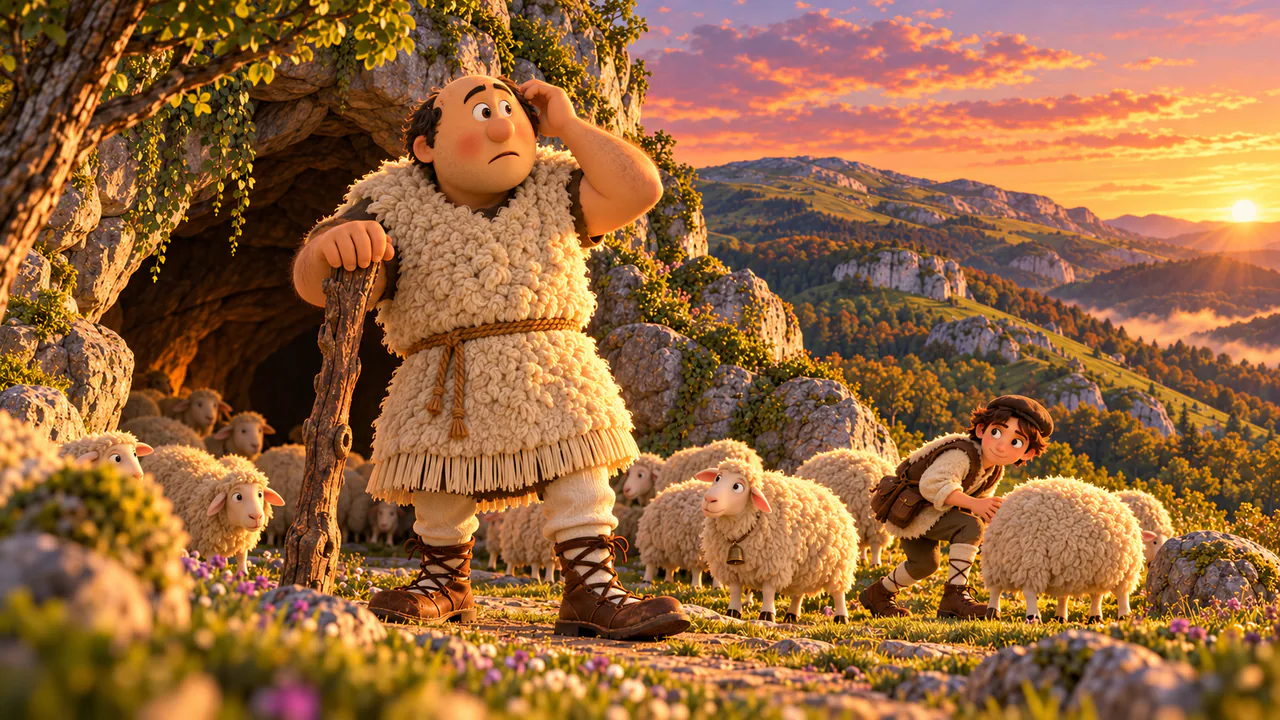
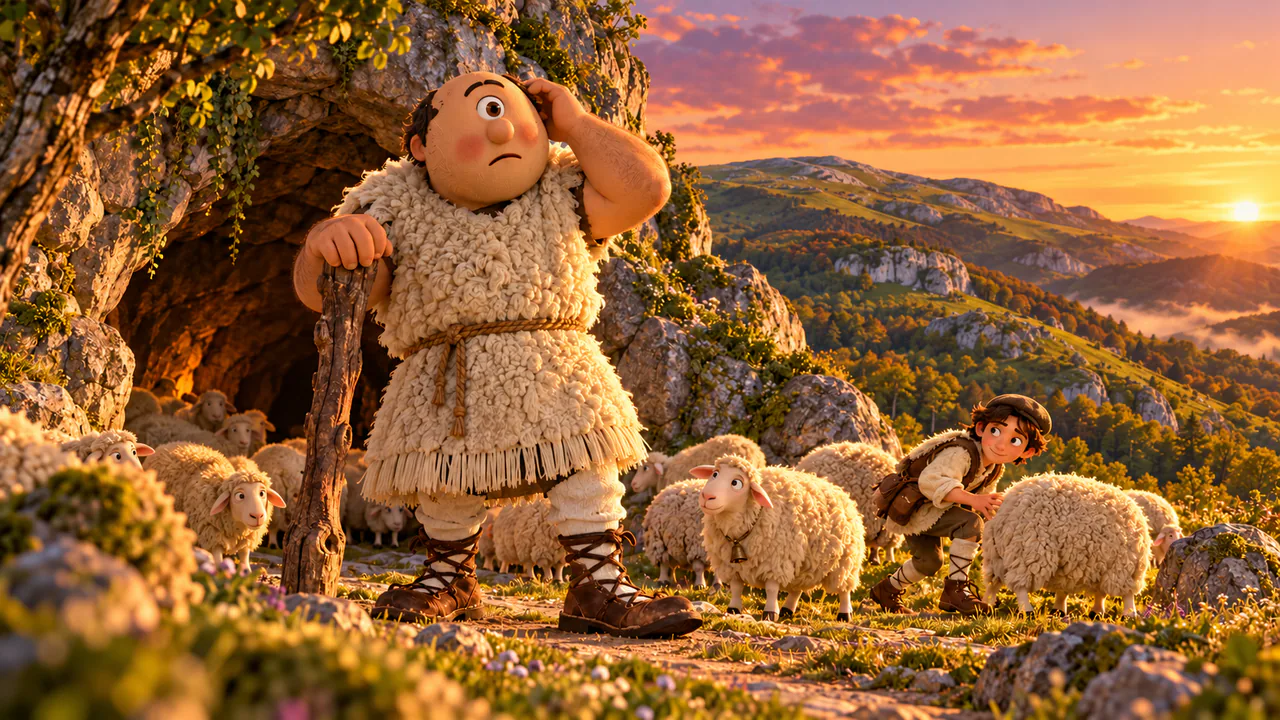
Revisión de imágenes: todas las ilustraciones también en el archivo único
El archivo único no tenía sitio para 59 ilustraciones (16 personajes de
Navarra, 15 tradiciones, 16 leyendas, 12 figuras y algunas láminas) y
enseñaba el icono de antes. Ahora, si llega a la web publicada, las
enseña de allí y repinta el menú; sin conexión, sigue con los iconos.

Tartalo pasa a la variante entregada con un solo ojo, como cuenta la
leyenda (la de antes tenía dos).

Claude-Session: https://claude.ai/code/session_01LP3syHb7415C8M5w3wgHaS

diff --git a/src/ui/laminas.js b/src/ui/laminas.js
@@ -6,7 +6,7 @@
 // (tools/laminas-movil.mjs: sin conexión, la portada a todo el ancho del móvil tumbado se veía borrosa).
 // En WebP y no en AVIF: los visores de HTML del iPhone no siempre enseñan AVIF, y sin ellas las portadas salían vacías.
 import { LAMINAS, COMARCA_LAMINA, CUENTO_LAMINA, PERSONAJE_LAMINA, BOSQUE_LAMINA } from '../data/laminas.js';
-import { hdTable } from '../web/hd.js';
+import { hdTable, webUrl } from '../web/hd.js';
 import { esc } from '../util/html.js';
 import { byId } from '../util/glob.js';
 
@@ -24,8 +24,9 @@ const BY_ID = Object.fromEntries(LAMINAS.map(l => [l.id, l]));
 const SMALL = Object.fromEntries(Object.entries(URLS).filter(([k]) => k.endsWith('-s')).map(([k, v]) => [k.slice(0, -2), v]));
 hdTable('laminas', URLS, BIG, 2560); hdTable('laminas', SMALL, URLS, 1280); hdTable('laminas', SMALL, BIG, 2560); hdTable('leyendas', LEY_BIG, LEY_HD, 2560);   // (en el archivo único, con conexión: los de la web, src/web/hd.js)
 
-/** La lámina por su id (o null si no está en esta versión); small: la copia pequeña. */
-export const laminaUrl = (id, small = false) => (id && ((small && URLS[id + '-s']) || URLS[id])) || null;
+/** La lámina por su id (o null si no está en esta versión); small: la copia pequeña. (En el archivo único, las que no
+ *  caben dentro, de la web si se llega a ella: src/web/hd.js) */
+export const laminaUrl = (id, small = false) => (id && ((small && URLS[id + '-s']) || URLS[id] || webUrl('laminas', id))) || null;
 export const laminaById = (id) => BY_ID[id] || null;
 // Las escenas de las cimas de las misiones de montaña (src/assets/cimas), con el id del monte, en 16:9: el explorador en
 // la subida. En la web, la de 1024 para las tarjetas y la de 1536 para el buzón de cumbre; en el archivo único, la de 320.
@@ -36,24 +37,24 @@ hdTable('cimas', CIMA_BIG, CIMA_HD, 2560);
 /** La escena de una cima (o null si no la tiene); big: la grande. */
 export const cimaUrl = (id, big = false) => (big && CIMA_BIG[id]) || CIMA[id] || null;
 // Los personajes de Navarra (src/assets/personajes), con su id de data/personajes.js, en 16:9: en la web, los de 1536;
-// en el archivo único, los de 320. Si en una versión faltara la de un personaje, Sancho y las golondrinas llevan una lámina
-// que ya estaba en el juego. Miguel Induráin, sin la suya: es una persona viva y no se le dibuja sin su permiso
+// en el archivo único, los de 320 (los 8 primeros: los demás no caben y, con conexión, se ven de la web). Si en una versión
+// faltara la de un personaje, Sancho y las golondrinas llevan una lámina que ya estaba en el juego. Miguel Induráin, sin la suya: es una persona viva y no se le dibuja sin su permiso
 // (legal/estado-legal.md, R4); su ficha lleva su icono. Para volver a ponerla, basta con quitar la exclusión. (En la
 // carpeta de enlaces del artefacto, personajes/artefacto, tampoco va su enlace: la exclusión no vale con enlaces.)
 const PERS = byId(import.meta.glob(['@personajes/*.webp', '!@personajes/indurain.webp'], { eager: true, query: '?url', import: 'default' }));
 const PERS_HD = byId(import.meta.glob(['@personajes-hd/*.webp', '!@personajes-hd/indurain.webp'], { eager: true, query: '?url', import: 'default' }));
 hdTable('personajes', PERS, PERS_HD, 2560);
 /** La ilustración de un personaje de Navarra (o null si no la tiene). */
-export const personajeUrl = (id) => PERS[id] || laminaUrl(PERSONAJE_LAMINA[id]) || null;
+export const personajeUrl = (id) => PERS[id] || webUrl('personajes', id) || laminaUrl(PERSONAJE_LAMINA[id]) || null;
 // Las tradiciones (src/assets/tradiciones), una por misión con su id en el campo «ilus» de data/levels.js, en 16:9: el
 // explorador viendo la tradición. En la web, las de 1536; en el archivo único, las de 320.
 const TRAD = byId(import.meta.glob('@tradiciones/*.webp', { eager: true, query: '?url', import: 'default' }));
 const TRAD_HD = byId(import.meta.glob('@tradiciones-hd/*.webp', { eager: true, query: '?url', import: 'default' }));
 hdTable('tradiciones', TRAD, TRAD_HD, 2560);
 /** La ilustración de una tradición (o null si no está en esta versión). */
-export const tradicionUrl = (id) => (id && TRAD[id]) || null;
+export const tradicionUrl = (id) => (id && (TRAD[id] || webUrl('tradiciones', id))) || null;
 /** La ilustración de un cuento (o, si no tiene, la lámina de su pueblo que lo recuerda); big: la grande. */
-export const leyendaUrl = (id, big = false) => (big && LEY_BIG[id]) || LEY[id] || laminaUrl(CUENTO_LAMINA[id], !big);
+export const leyendaUrl = (id, big = false) => (big && LEY_BIG[id]) || LEY[id] || webUrl('leyendas', id, big ? 1536 : 0) || laminaUrl(CUENTO_LAMINA[id], !big);
 // Las portadas son todas láminas: la de cada pueblo, la de cada comarca y, si un pueblo no tiene, la de su comarca.
 // (Las fotos 3D de antes, con el diorama de la comarca y el personaje delante, ya no se usan.)
 /** La portada del pueblo (o null si no tiene); small: la copia de las tarjetas. */

diff --git a/src/web/hd.js b/src/web/hd.js
@@ -26,6 +26,34 @@ const addBig = (u, w, b) => { const L = REV.get(u) || []; if (!L.some(x => x.u =
 /** En el archivo único con conexión: la dirección en la web de una imagen que no va dentro (grupo e id de la lista),
  *  en cuanto ha llegado la lista; si no, null (los escudos de las casas y de los oficios). */
 export const hdUrl = (group, id) => { const e = MAP?.[group + '/' + id]; return Array.isArray(e) && e.length && typeof e[0]?.[1] === 'string' ? SITE + e[0][1] : null; };
+// En el archivo único no caben todas las ilustraciones (los personajes de Navarra, las tradiciones, las leyendas, las
+// figuras y las láminas nuevas): sin ellas, la ficha enseñaba el icono de antes. Si se llega a la web publicada (se
+// prueba cargando de ella una imagen pequeña: hay visores que dejan cargar imágenes de fuera pero no pedir archivos),
+// esas se ven de la web, como en ella; si no, las de dentro. Al saberlo, «herrizherri-web», para que el menú se repinte.
+let WEB_OK = false;
+/** En el archivo único, si se llega a la web: la dirección de una imagen que no va dentro (grupo e id de la lista; la
+ *  más pequeña de al menos «ancho» píxeles, o la mayor); si no, null. */
+export const webUrl = (group, id, ancho = 0) => {
+  if (!WEB_OK || !id) return null;
+  const e = MAP?.[group + '/' + id]; if (!Array.isArray(e)) return null;
+  const L = e.filter(x => Array.isArray(x) && typeof x[1] === 'string');
+  const x = L.find(x => +x[0] >= ancho) || L[L.length - 1];
+  return x ? SITE + x[1] : null;
+};
+function probarWeb() {
+  const e = MAP && Object.values(MAP).find(e => Array.isArray(e) && Array.isArray(e[0]) && +e[0][0] <= 256 && typeof e[0][1] === 'string');
+  if (!e || WEB_OK) return;
+  let n = 0;
+  const prueba = () => {
+    if (WEB_OK || navigator.onLine === false) return;
+    const i = new Image(); n++;
+    i.onload = () => { if (WEB_OK) return; WEB_OK = true; dispatchEvent(new Event('herrizherri-web')); };
+    i.onerror = () => { if (n < 3) setTimeout(prueba, n === 1 ? 4000 : 15000); };
+    i.referrerPolicy = 'no-referrer'; i.src = SITE + e[0][1];
+  };
+  addEventListener('online', () => { n = 0; prueba(); });
+  prueba();
+}
 function fill(group, table) {
   for (const [id, u] of Object.entries(table)) {
     const e = MAP[group + '/' + id]; if (!Array.isArray(e) || !u) continue;
@@ -40,7 +68,7 @@ export function startHD() {
   // por si la web publicada es más nueva que el archivo)
   let watching = false;
   const use = (j) => { MAP = j; for (const [g, tb] of TABLES) fill(g, tb); if (REV.size && !watching) { watching = true; watch(); } };
-  if (__HDMAP__ && typeof __HDMAP__ === 'object') use(__HDMAP__);
+  if (__HDMAP__ && typeof __HDMAP__ === 'object') { use(__HDMAP__); probarWeb(); }
   // (si la lista no llega —sin conexión, una red lenta, un corte—, se vuelve a pedir a los 4 y a los 15 s y al recuperar
   // la conexión: antes se pedía una sola vez, y si fallaba el archivo único se quedaba con las láminas pequeñas)
   let n = 0, busy = false;
@@ -50,7 +78,7 @@ export function startHD() {
     const ac = new AbortController(), t = setTimeout(() => ac.abort(), 15000);
     fetch(SITE + 'hd.json', { signal: ac.signal, cache: 'no-cache', credentials: 'omit', referrerPolicy: 'no-referrer' })
       .then(r => r.ok ? r.json() : null)
-      .then(j => { clearTimeout(t); busy = false; if (!j || typeof j !== 'object') throw 0; FRESH = true; use(j); })
+      .then(j => { clearTimeout(t); busy = false; if (!j || typeof j !== 'object') throw 0; FRESH = true; use(j); probarWeb(); })
       .catch(() => { clearTimeout(t); busy = false; if (n < 3) setTimeout(ask, n === 1 ? 4000 : 15000); });
   };
   addEventListener('online', ask);

diff --git a/src/ui/figuras.js b/src/ui/figuras.js
@@ -3,7 +3,7 @@
 // la tarjeta de la tira del inicio y de la pantalla Personajes, y su ficha (quién es, cómo viste, en el juego).
 import { FIGURAS, figuraById } from '../data/figuras.js';
 import { infoCard } from './escudo.js';
-import { hdTable } from '../web/hd.js';
+import { hdTable, webUrl } from '../web/hd.js';
 import { esc } from '../util/html.js';
 import { isDidactico } from '../util/modo.js';
 import { byId } from '../util/glob.js';
@@ -15,11 +15,11 @@ const ILUS = byId(import.meta.glob('@figuras-ilus/*.webp', { eager: true, query:
 hdTable('figuras', IMG); hdTable('figuras-ilus', ILUS);
 const KIND = { leyenda: 'Leyenda', carnaval: 'Carnaval' };
 /** La ilustración de una figura si la hay; si no, el render de su traje (o '' si no está en esta versión). */
-export const figuraImg = (id) => ILUS[id] || IMG[id] || '';
+export const figuraImg = (id) => ILUS[id] || webUrl('figuras-ilus', id) || IMG[id] || '';   // (en el archivo único, la ilustración de la web si se llega a ella)
 /** La figura recortada, sin fondo (para un círculo con su cara). */
 export const figuraRecorte = (id) => IMG[id] || '';
 /** Si la figura tiene ilustración (apaisada) en vez del render. */
-export const figuraIlus = (id) => !!ILUS[id];
+export const figuraIlus = (id) => !!(ILUS[id] || webUrl('figuras-ilus', id));
 /** La tarjeta de una figura: su imagen, de qué es y de dónde, y su nombre (abre la ficha al tocarla: data-figura). */
 const figuraCard = (f) => `<button type="button" class="fcard${figuraIlus(f.id) ? ' ilus' : ''}" data-figura="${f.id}" aria-label="${esc(f.name)}"><span class="fpic">${figuraImg(f.id) ? `<img src="${figuraImg(f.id)}" alt="" loading="lazy" decoding="async">` : ''}</span><span class="ftx"><small>${esc(KIND[f.kind])} · ${esc(f.where.split(' · ')[0])}</small><b>${esc(f.name)}</b>${f.eu && f.eu !== f.name ? `<i>${esc(f.eu)}</i>` : ''}</span></button>`;
 /** Las tarjetas de una lista de figuras (por defecto, todas). */

diff --git a/src/hub/hub.js b/src/hub/hub.js
@@ -200,6 +200,9 @@ export class Hub {
       <header class="hub-top"><div class="brand logo">HERRIZHERRI</div><button type="button" class="app-btn" data-cj-abre hidden><svg viewBox="0 0 48 48" aria-hidden="true" fill="none" stroke="currentColor" stroke-width="3.5" stroke-linecap="round" stroke-linejoin="round"><circle cx="24" cy="24" r="19"/><path d="M20 16l12 8-12 8z"/></svg><span>Cómo jugar</span></button><button type="button" class="app-btn alt" data-mando hidden>${I('control', 24)}<span>Mando del móvil</span></button><div class="chip" id="hChip"></div></header>
       <nav class="hub-nav" id="hNav"></nav><main class="hub-main" id="hMain"></main></div>`);
     document.body.appendChild(this.root);
+    // (en el archivo único: en cuanto se sabe que se llega a la web, la pantalla del menú se repinta con las ilustraciones
+    // que no van dentro, src/web/hd.js; solo si no se ha bajado en ella ni hay nada abierto encima)
+    addEventListener('herrizherri-web', () => { const m = $('#hMain', this.root); if (this.visible && !this.sheet && m && m.scrollTop < 40 && !document.querySelector('.mg-overlay, .lam-view')) this.go(this.screen, this.arg, true); });
     // en el ordenador o en una tele (sin dedo: util/tactil.js), el mando del móvil a mano desde el principio (en el artefacto de claude.ai no puede conectarse); su
     // código y el del QR se cargan en un rato libre, para que el panel salga al momento
     const mb = this.root.querySelector('[data-mando]');

diff --git a/legal/estado-legal.md b/legal/estado-legal.md
@@ -102,6 +102,7 @@
 | 2026-10-05 | Estado actual del juego completo (primera auditoría) | 1 No (apodo local) · 2 Sí, localStorage y caché del service worker · 3 Sí, ver registro · 4 Sí · 5 No (solo puntos y «txanpon» del juego) · 6 No, salvo descargar el juego · 7 Sí · 8 Sí, se juega con el móvil en la mano | ÁMBAR | Seguir con los cambios del informe (`legal/informe-auditoria-inicial.md`). Los puntos ROJO (clubes reales) esperan decisión del titular. |
 | 2026-10-22 | Mando en el móvil: el móvil hace de mando por la wifi (página `mando/`, sin instalar nada), con un código QR y WebRTC; saludo por el servidor público de PeerJS y, de reserva, por cinco servidores públicos de MQTT (EMQX, HiveMQ, Mosquitto, Eclipse y Shiftr) y ntfy.sh con el saludo cifrado, ruta con STUN de Google y relevo TURN de PeerJS si hace falta. Solo se activa si el jugador lo pide. Los mandos Bluetooth o USB de verdad también valen (Gamepad API, sin red) | 1 sí: las IP de los dos aparatos llegan a terceros (PeerJS, Google, Cloudflare y los servidores de reserva) · 2 no · 3 sí: PeerJS, Google, Cloudflare, EMQ, HiveMQ, Eclipse, Shiftr y ntfy.sh, sin contrato · 4 sí, caso normal · 5 no · 6 sí, solo al activarlo · 7 no · 8 no | ÁMBAR | Se publica como función opcional, apagada por defecto. Antes de vender: explicarlo en la política de privacidad (castellano y euskera) o montar un servidor de saludo y relevo propio en la UE (VERIFICAR con el abogado) |
 | 2026-10-24 | Servidor propio del mando (`servidor/mando-relevo`: Cloudflare Workers con Durable Objects en la jurisdicción de la UE), escrito y probado en local pero sin desplegar: el juego no lo usa hasta poner su dirección. Pelota: tres campeonatos (Manomanista, Parejas y Cuatro y Medio), sorteo del saque con chapa, colores por antigüedad, repeticiones y jueces | 1 hoy no; al desplegarlo, las IP del ordenador y del móvil llegan a Cloudflare (UE), lo demás va cifrado de punta a punta · 2 no · 3 solo al desplegarlo: Cloudflare como encargado · 4-8 no: los nombres de las competiciones son genéricos, sin marcas ni logotipos de empresas de pelota | VERDE (sin desplegar) | Al desplegarlo: nombrar a Cloudflare en la política de privacidad (castellano y euskera) y aceptar su contrato de encargo de tratamiento. |
+| 2026-10-25 | Revisión a fondo de las imágenes: cada una es la última entregada y encaja con su ficha. Tartalo pasa a la variante entregada con un solo ojo, como en la leyenda. El archivo único, con conexión, enseña de la web publicada las ilustraciones que no caben dentro (solo descarga imágenes, no manda nada del jugador). Induráin sigue sin dibujo | 1-8 no | VERDE | Ninguno nuevo: no entran imágenes ni licencias nuevas. |
 | 2026-10-25 | Revisión de las imágenes «estilo película de animación» (parecido a Pixar): 111 láminas, 24 personajes, 19 tradiciones, 29 leyendas, 16 cimas, 12 figuras, 54 futbolistas, 44 pelotaris, 21 emblemas, 12 sellos y 10 retratos, una a una. Sin personajes, logotipos, marcas, textos ni guiños de Disney o Pixar; los encargos piden «ilustración 3D tipo película de animación» sin nombrar a ningún estudio. El estilo no se protege por derechos de autor; sí los personajes concretos y las marcas. Arreglos: Induráin sin dibujo; «Créditos y licencias» en el perfil con el aviso MIT de three.js y qrcode-generator (la compilación lo quitaba), Meshy, iNaturalist, OpenStreetMap y Copernicus, las letras OFL y que las ilustraciones se hicieron con ayuda de IA | 1-8 no | ÁMBAR | Falta saber con qué herramienta de IA y con qué plan se hicieron las ilustraciones (sus condiciones de uso) y el plan de Meshy (en el gratuito, licencia CC BY 4.0: el crédito ya va en el juego). No anunciar el juego como «estilo Pixar» ni usar ese nombre en tiendas, carteles o redes. |
 | 2026-10-25 | Menú más visual: un color por parte del juego, el mapa con el color de cada comarca, fotos de los pueblos en el pasaporte, el dibujo de cada insignia, fotos de animales y plantas en cada comarca y láminas en el inicio. Todo son imágenes que el juego ya tenía (láminas, fotos CC0 de iNaturalist y dibujos propios) | 1-8 no: no hay datos nuevos, ni servicios, ni imágenes de terceros nuevas | VERDE | Ninguna. |
 | 2026-10-25 | Inicio con estilo de libro de aventuras: el reino de Navarra (el mapa de comarcas que ya tenía el juego, en pergamino, con un capítulo por comarca y una pantalla por pueblo) y títulos en la letra Cinzel (SIL Open Font License 1.1, de @fontsource/cinzel, autoalojada como las demás y citada en los créditos). Sin imágenes nuevas, sin datos nuevos y sin servicios de terceros | 1-8 no: solo diseño y una tipografía libre |
